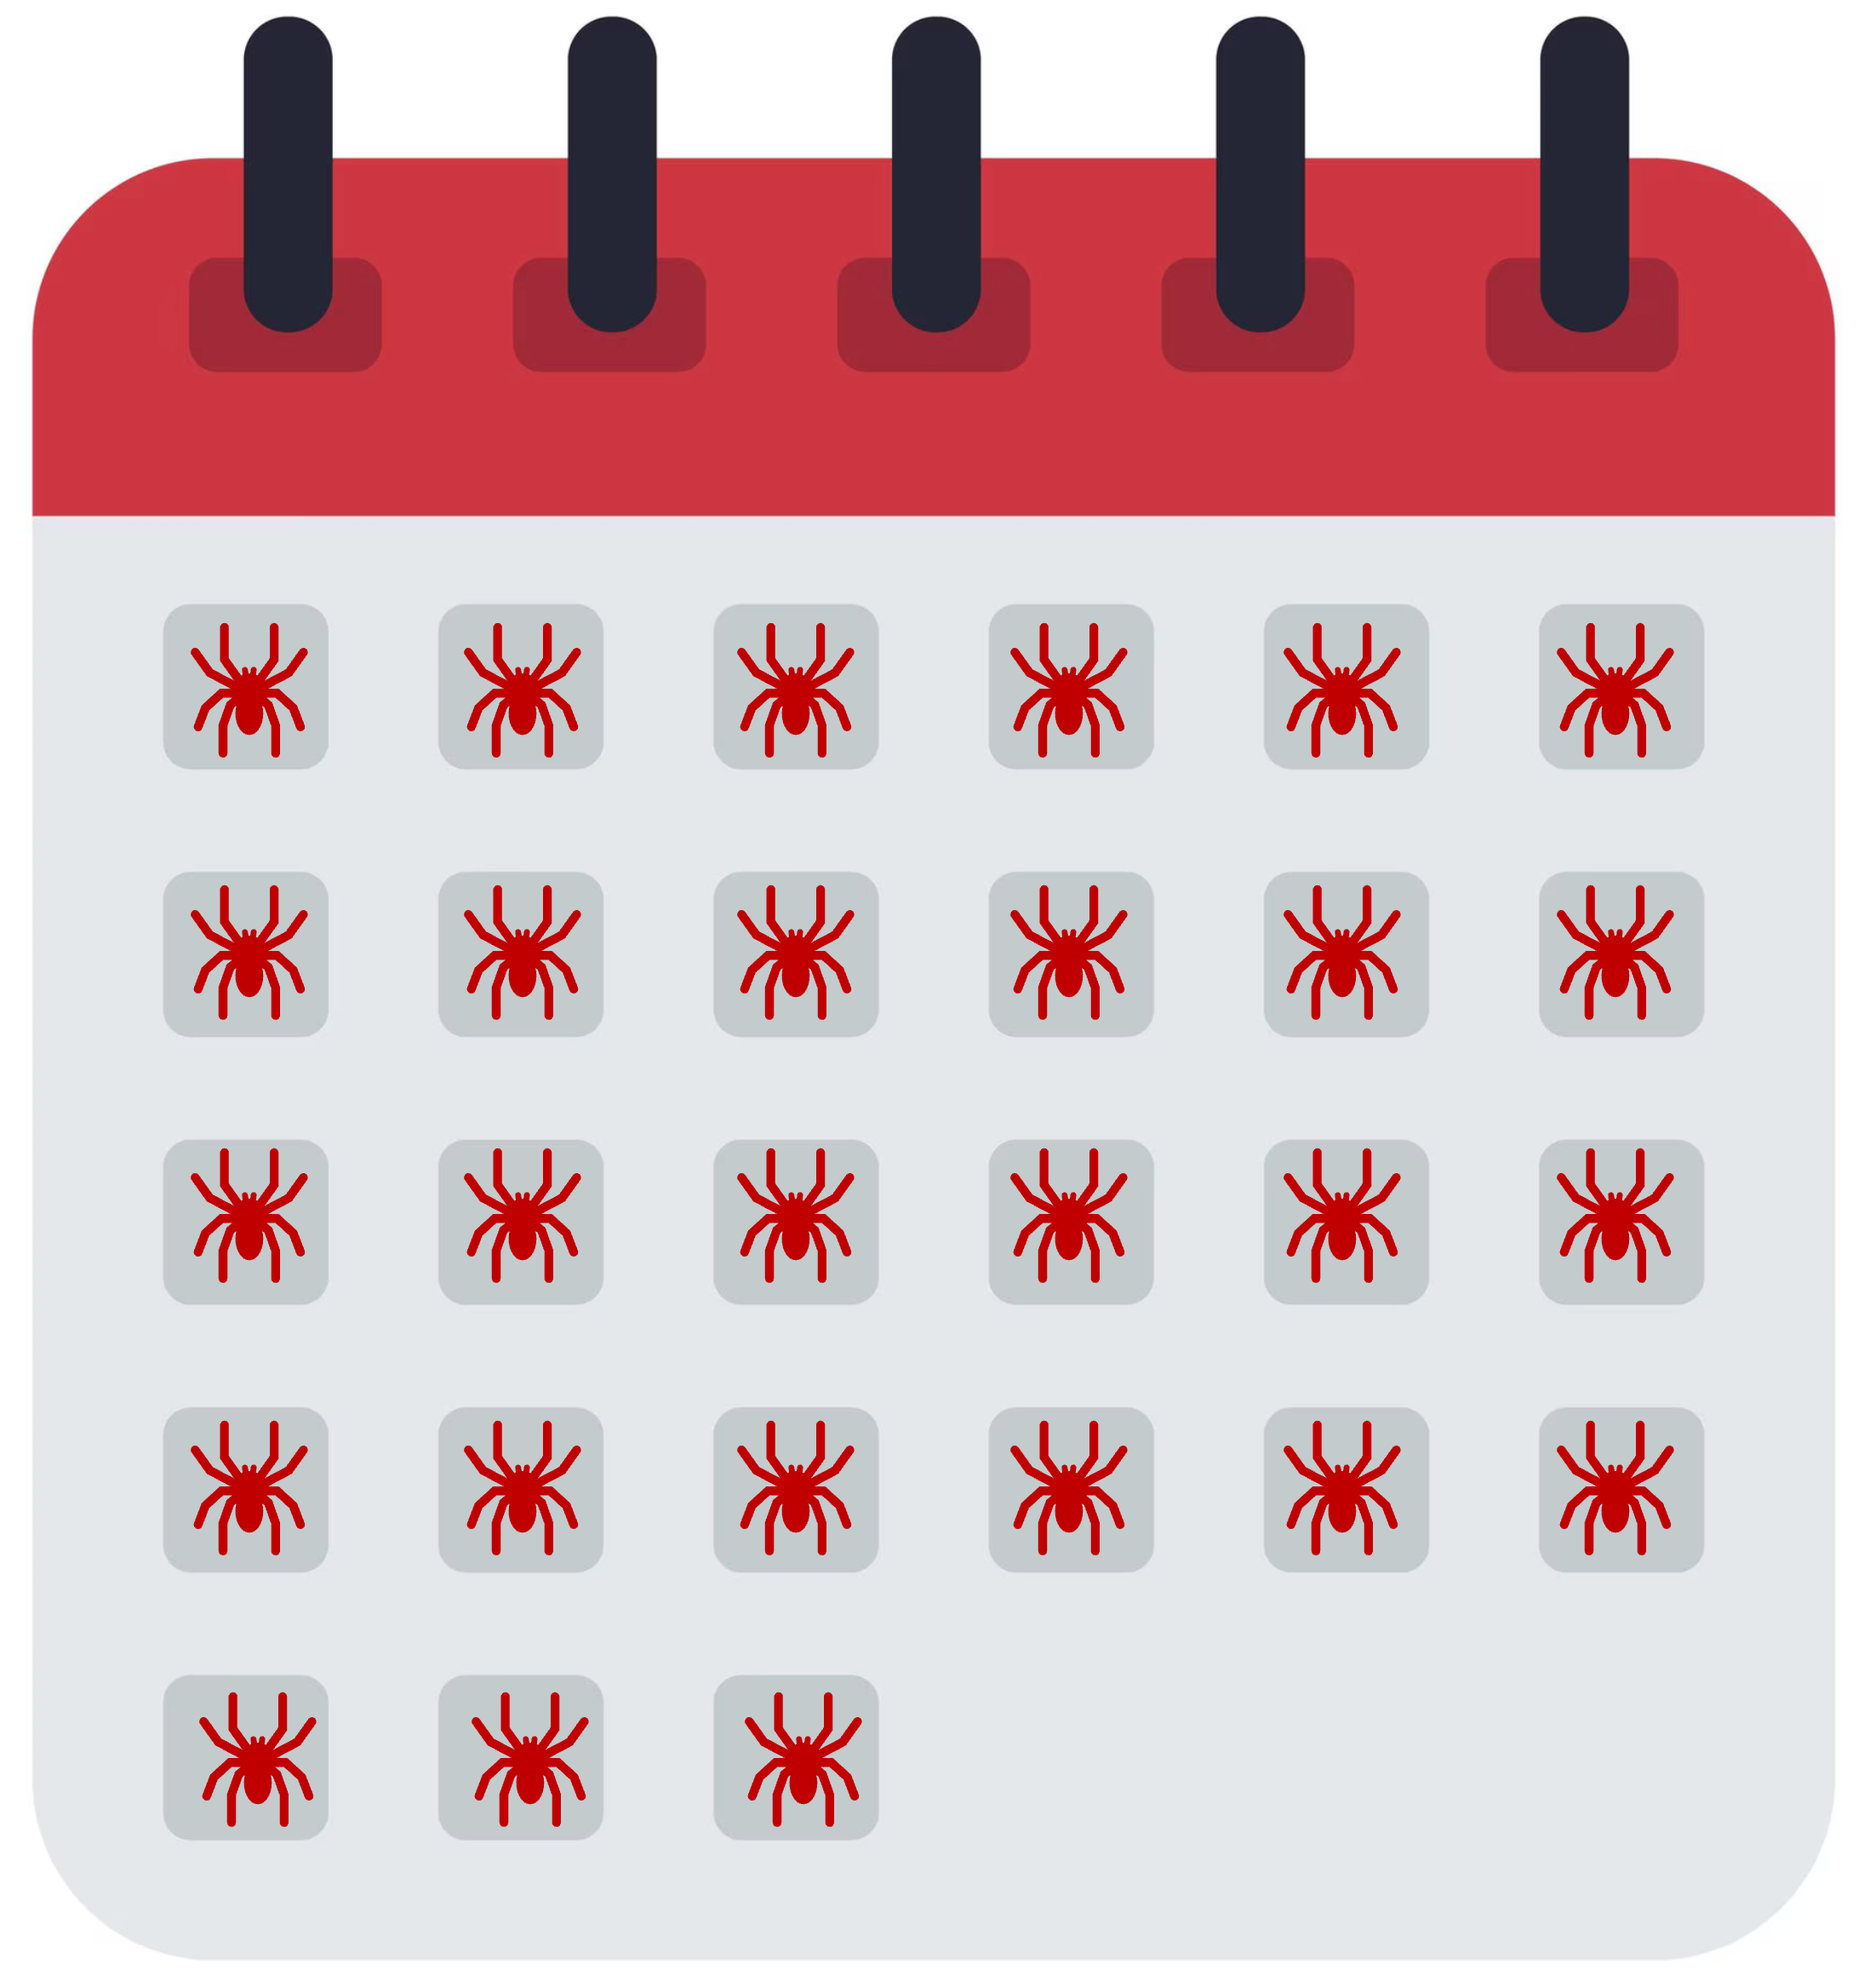
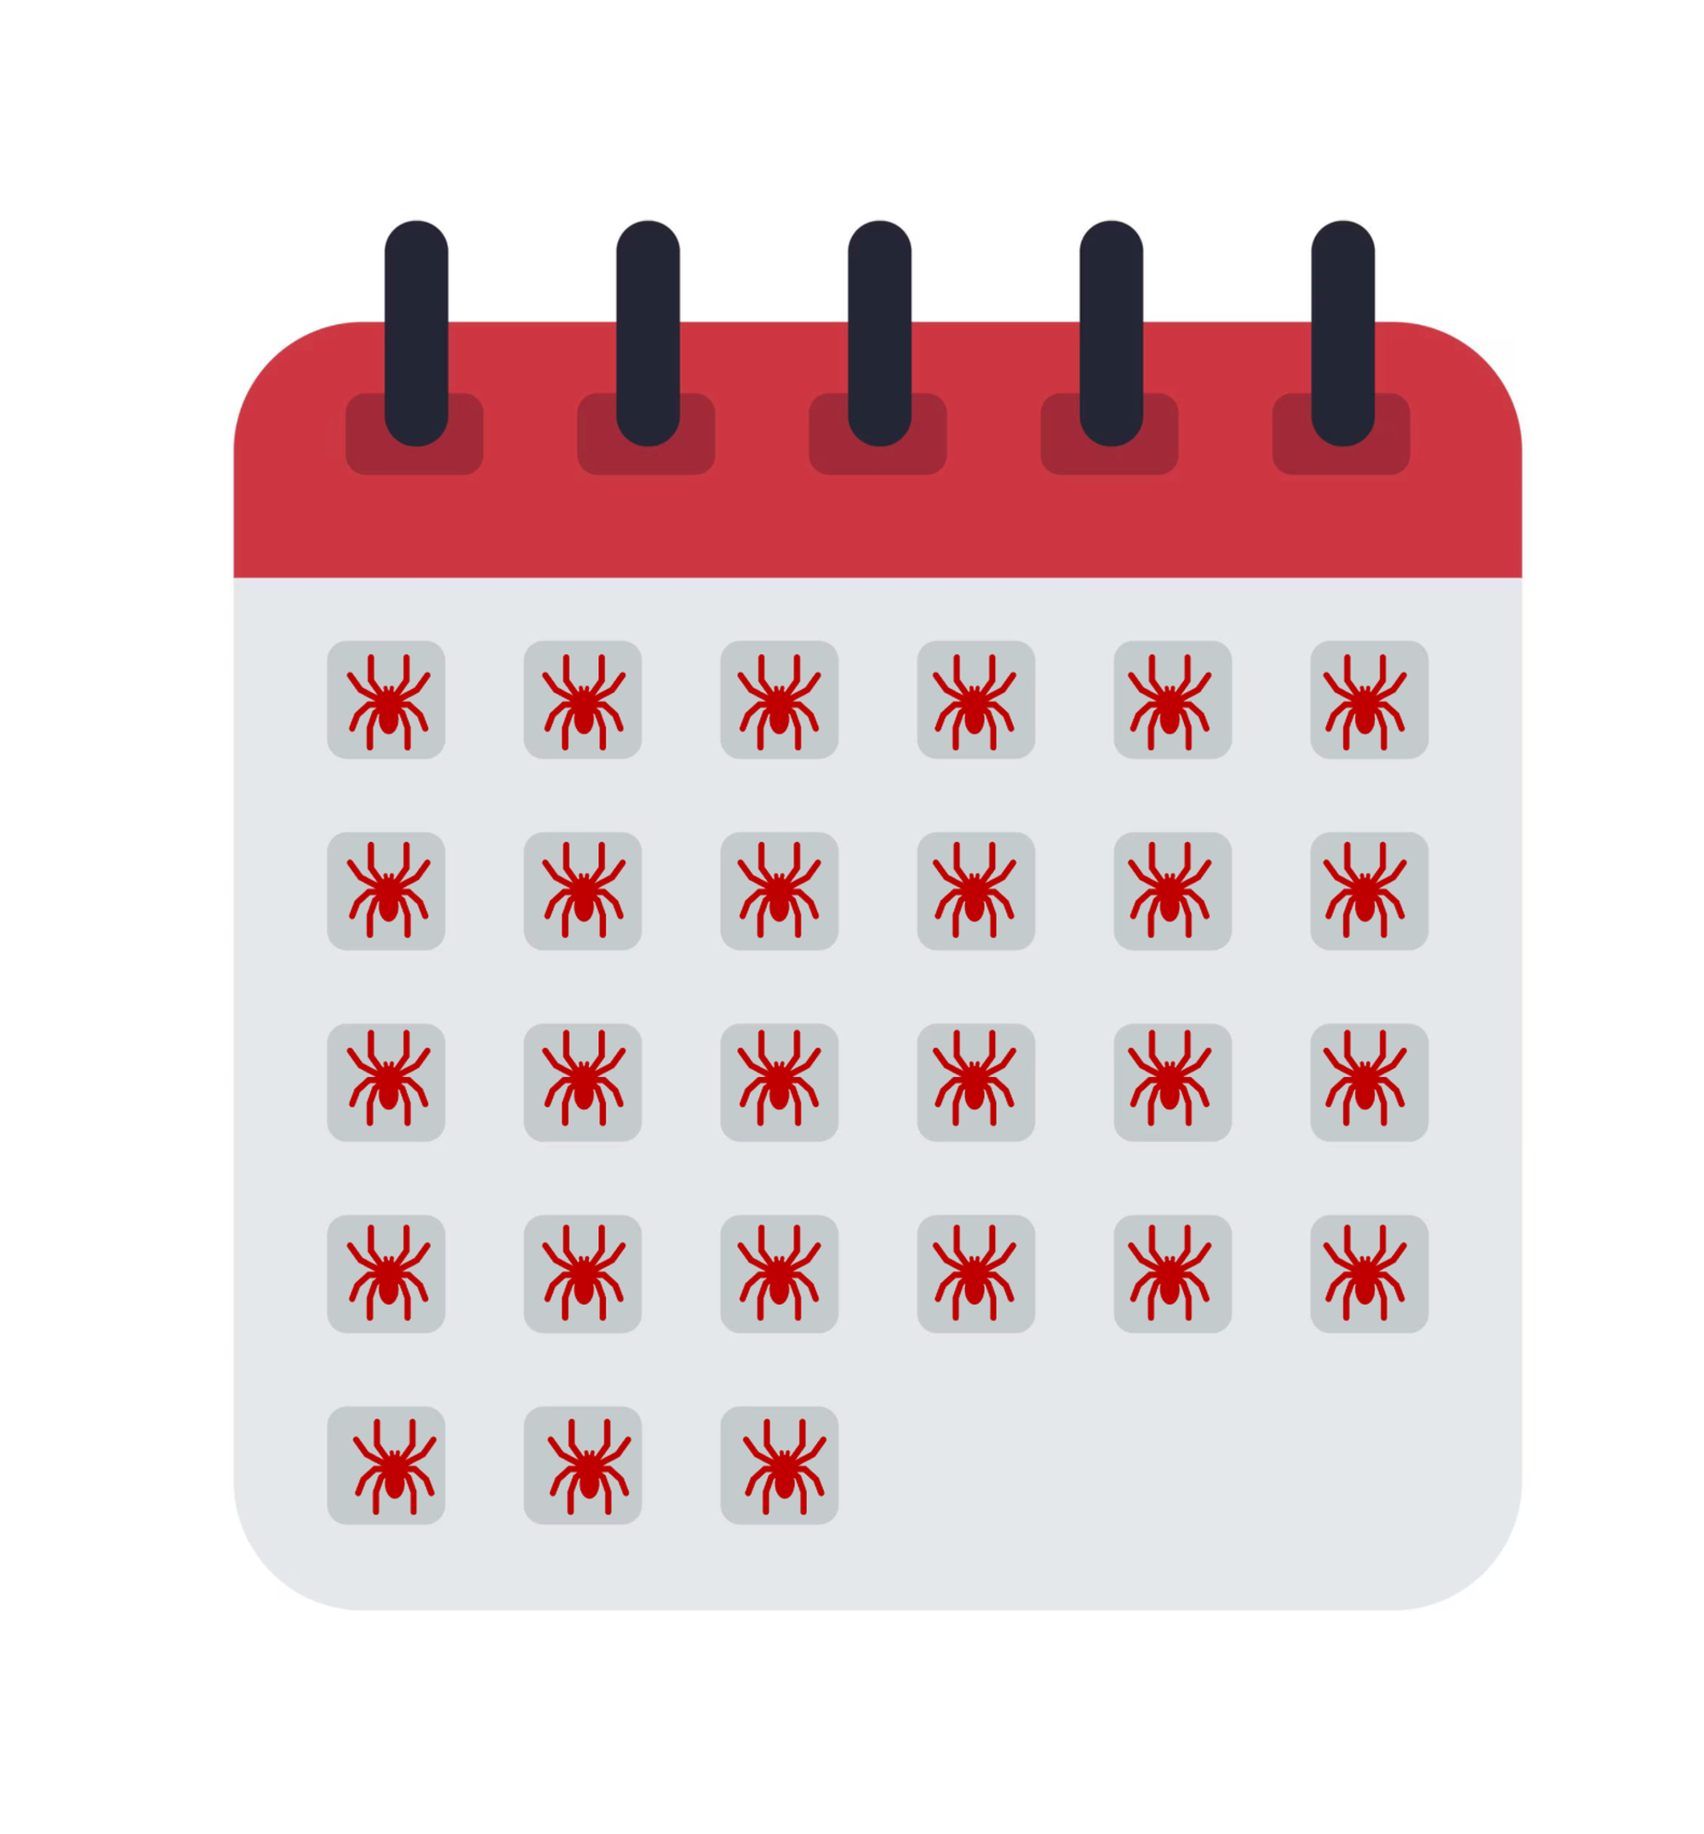
Add 2025 malware persistence blog post and figures

diff --git a/_posts/2026-03-02-what-malware-persists.md b/_posts/2026-03-02-what-malware-persists.md
@@ -1,0 +1,203 @@
+---
+layout: blog
+title: "Measuring Malware Cluster Persistence in 2025"
+description: >
+  A reproducible analysis of 120,000 VirusTotal samples showing which malware clusters remained active and behaviorally stable over time.
+date: 2026-03-02
+categories:
+  - posts
+permalink: /blog/what-malware-persists/
+tags:
+  - malware
+  - threat intelligence
+  - persistence
+  - mitre attack
+  - detection engineering
+related_posts:
+image:
+  path: /assets/blogs/yearly_malware/icon.png
+  alt: "Malware cluster persistence over time"
+---
+
+# Measuring Malware Cluster Persistence in 2025: What Actually Stayed Active?
+
+Threat data is noisy, and headline trend charts often hide what is actually sticking around. I wanted to answer a practical question: which malware activity really persisted over time, and what did that persistence look like in behavior?
+
+## Executive Summary
+
+I ran a reproducible pipeline over 120,000 VirusTotal samples (November 2024 to October 2025) and found that persistence is both highly concentrated and surprisingly stable:
+
+- Ten normalized clusters account for 89.4% of observed activity.
+- 79.8% of samples map to ATT&CK techniques, with stable behavior profiles month-over-month.
+- Evasion is common but not rapidly escalating: sandbox evasion appears in 49.9% of enriched samples, and process injection in 37.1%.
+
+What stood out to me is that persistence in commodity malware is less about constant novelty and more about durable operating models, especially loaders, mobile grayware, and service-style delivery ecosystems.
+
+That gives a clearer way to read malware trend claims and a better idea of where sustained detection engineering actually pays off.
+
+## At-a-Glance Metrics
+
+| Metric | Value | Why It Matters |
+|---|---:|---|
+| Total samples analyzed | 120,000 | Sufficient scale for longitudinal signal |
+| Study window | Nov 2024 - Oct 2025 | Covers seasonal and campaign variation |
+| Distinct normalized clusters | 861 | Captures ecosystem breadth |
+| Top-10 cluster share | 89.4% | Activity is highly concentrated |
+| ATT&CK-mapped samples | 79.8% (95,780) | Strong behavior-level coverage |
+| Sandbox/virtualization evasion | 49.9% | Evasion is baseline behavior |
+| Process injection/tampering | 37.1% | Injection remains a common execution pattern |
+| Security tool tampering | 27.6% | Defense impairment is routine in many workflows |
+| Integrity-primary impact | 42.9% | Credential theft and file modification are central outcomes |
+
+![Malware cluster persistence over time](/assets/blogs/yearly_malware/fig_family_persistence_2025.png)
+
+*Figure: Persistence of leading normalized clusters across the observation window.*
+
+## Why This Matters Right Now
+
+Recurring public dashboards are useful for short-term situational awareness. But snapshot rankings rarely tell you whether the same operational clusters are still active month to month.
+
+This analysis adds a repeatable layer to those reports. I treat telemetry as imperfect but useful, then test whether conclusions still hold when assumptions change.
+
+No dashboard gives certainty, but I care more about whether the finding survives reruns, threshold changes, and sanity checks.
+
+## How to Read the Results
+
+Two interpretation choices matter before you dive into details:
+
+- These are normalized operational clusters, not guaranteed one-to-one code lineages.
+- For broader labels (for example, some Android adware-style categories), persistence should be read as class-level continuity in telemetry.
+
+This keeps the claims grounded without losing operational value. You still need to know what keeps showing up, even when naming taxonomies are messy.
+
+## What the Analysis Covered
+
+The study processed 120,000 samples from a 12-month window with a six-stage workflow:
+
+1. Observation filtering to remove duplicate submission noise.
+2. Family normalization to collapse vendor naming variance.
+3. Heuristic labeling to improve coverage when canonical labels are missing.
+4. Behavioral mapping to ATT&CK techniques.
+5. Monthly temporal aggregation by normalized cluster.
+6. Empirical validation for agreement and stability.
+
+Convergence testing is a key safeguard in the pipeline: major indicators stabilized after roughly 35,000 samples, which suggests later findings are not under-sampling artifacts.
+
+This is more than a big sample pull. We filter and validate to avoid mistaking raw volume for real signal.
+
+![Measurement workflow from telemetry to persistence indicators](/assets/blogs/yearly_malware/framework.png)
+
+*Figure: Six-stage workflow used to transform raw telemetry into validated persistence indicators.*
+
+## Method Details That Matter
+
+The workflow is easy to describe, but each stage has a specific quality-control job:
+
+- Observation filtering reduces repeated-upload inflation by deduplicating high-confidence submissions at the file-plus-time level.
+- Family normalization aligns noisy vendor strings into consistent cluster identities for temporal comparison.
+- Heuristic labeling recovers coverage when canonical labels are absent, while preserving provenance ([avclass](https://github.com/malicialab/avclass) vs heuristic).
+- Behavioral mapping translates execution evidence into ATT&CK techniques using explicit matching rules and confidence scoring.
+- Structural aggregation converts sample-level data into family-by-month persistence profiles.
+- Empirical validation checks both vendor consistency and behavioral stability before marking a cluster as persistent.
+
+Together, those safeguards make the rankings more trustworthy than raw sample counts.
+
+## Four Findings That Stand Out
+
+### 1. The ecosystem is concentrated, and that concentration is robust
+
+Across 861 normalized clusters, a small group dominates observed activity. The top ten clusters account for 89.4% of all samples, and the top three account for 32.7%.
+
+This concentration held even when I tightened detection consensus thresholds (for example, from p:5+ to p:15+), which suggests dominance is not just a threshold side effect.
+
+The convergence diagnostics back that up. Family-set similarity and rank correlation both stabilize early, with the major structure in place by about 35,000 samples.
+
+![Top-ten set stability as sample volume increases](/assets/blogs/yearly_malware/fig_family_stability_curve.png)
+
+*Figure: Top-ten family-set similarity converges early, supporting stability of concentration findings.*
+
+### 2. Behavior is stable enough to support longitudinal tracking
+
+Behavioral enrichment mapped 95,780 samples (79.8%) to ATT&CK techniques. The most frequent patterns remained consistent over time and across prevalence tiers:
+
+- T1071 (Application Layer Protocol)
+- T1082 (System Information Discovery)
+- T1027 (Obfuscated Files or Information)
+
+These are high-prevalence ATT&CK parent techniques. In SOC operations, they work best when implemented through sub-technique coverage and behavior-chain correlation, not single-technique alerting.
+
+That consistency matters because it lets defenders prioritize durable technique patterns instead of constantly chasing family-name churn.
+
+![Most frequent ATT&CK techniques in enriched samples](/assets/blogs/yearly_malware/fig_attack_top_techniques.png)
+
+*Figure: Technique prevalence is dominated by communication, discovery, and obfuscation-related behavior.*
+
+### 3. Evasion is now baseline tradecraft in commodity malware
+
+The study found substantial, steady use of evasion-related behaviors:
+
+- Sandbox/virtualization evasion: 49.9%
+- Process injection and memory tampering: 37.1%
+- Security tool tampering: 27.6%
+
+Importantly, the trend is stable rather than sharply rising. That points to mature use of known bypass practices, not a sudden jump in novel evasion capability.
+
+Operationally, this means anti-analysis assumptions belong in baseline defensive content, not just advanced-tier playbooks.
+
+### 4. Impact clusters around Integrity effects
+
+CIA impact analysis showed a strong skew toward Integrity-linked outcomes:
+
+- Integrity-primary impact: 42.9%
+- Confidentiality + Integrity: 23.9%
+- Unknown/unclassified: 21.9%
+
+This profile aligns with common credential theft and file modification workflows seen in loader-centric operations, where control and tampering effects often matter more than pure availability disruption.
+
+## What Changed in the Malware Ecosystem
+
+Across this dataset, the pattern points to a broader shift: away from monolithic, long-lived botnets and toward modular, service-like delivery ecosystems.
+
+Loader-centric clusters persist because they decouple delivery from payload. If one payload burns, operators can replace it while preserving delivery pathways, packer pipelines, and portions of infrastructure. That architectural flexibility is a practical persistence advantage.
+
+A second shift appears in platform mix. Android grayware and monitoring-style categories are no longer edge noise; they are part of the persistent core signal. Even with known mobile telemetry gaps, they show consistent operational presence.
+
+A third shift is delivery mechanism. Macro and document-heavy infection routes are now a small minority of observed activity, while executable and mobile package workflows dominate.
+
+## SOC Translation: From Findings to Action
+
+If you run or support a SOC, these results translate into concrete operating improvements:
+
+- Detection engineering: Build and tune content around persistent technique patterns (`T1071`, `T1082`, `T1027`) and pair them with high-signal evasive behaviors like `T1055` (Process Injection) and `T1497` (Virtualization/Sandbox Evasion) rather than chasing family-name churn.
+- Hunting strategy: Hunt for loader continuity indicators across campaigns (delivery paths, infrastructure overlap, recurring execution chains).
+- Control validation: Continuously test anti-analysis and anti-injection coverage, because evasion is baseline behavior, not edge-case behavior.
+- Coverage governance: Track mobile and grayware visibility as a formal gap area, with explicit telemetry and triage metrics.
+
+For smaller teams, adopting even one of these practices can materially improve defensive consistency.
+
+## Reproducibility Notes
+
+This project emphasizes reproducibility over one-off dashboard storytelling. That includes:
+
+- Explicit filtering thresholds.
+- Transparent normalization and heuristic rules.
+- Convergence checks before making strong claims.
+- Separation between measured facts and interpretation.
+
+Uncertainty remains, but this setup makes disagreement and replication possible, which is what mature security measurement needs.
+
+## Important Caveats
+
+This analysis measures persistence in public telemetry, not a full census of global infections. Public feeds skew toward environments with mature scanning and sharing practices.
+
+The corpus is intentionally heterogeneous (Windows loaders, Android adware/grayware, monitoring tools, and riskware classes). As a result, these findings should be interpreted as normalized operational-cluster persistence, not strict one-to-one lineage prevalence across every software class.
+
+Behavioral enrichment also depends on dynamic evidence quality. Some samples have sparse or incomplete execution traces, which can cap ATT&CK and impact attribution depth for specific subsets.
+
+## Closing Thought
+
+The most useful result is not a single family ranking. It is that transparent, reproducible measurement adds lasting ecosystem insight alongside operational dashboards.
+
+For security teams, that is actionable: the adversary landscape may look noisy at the sample level, but at the cluster and behavior level, persistence is measurable, consistent, and defensible.
+
+Practical takeaway: transparent, repeatable analysis gives teams something they can defend, challenge, and improve over time.
